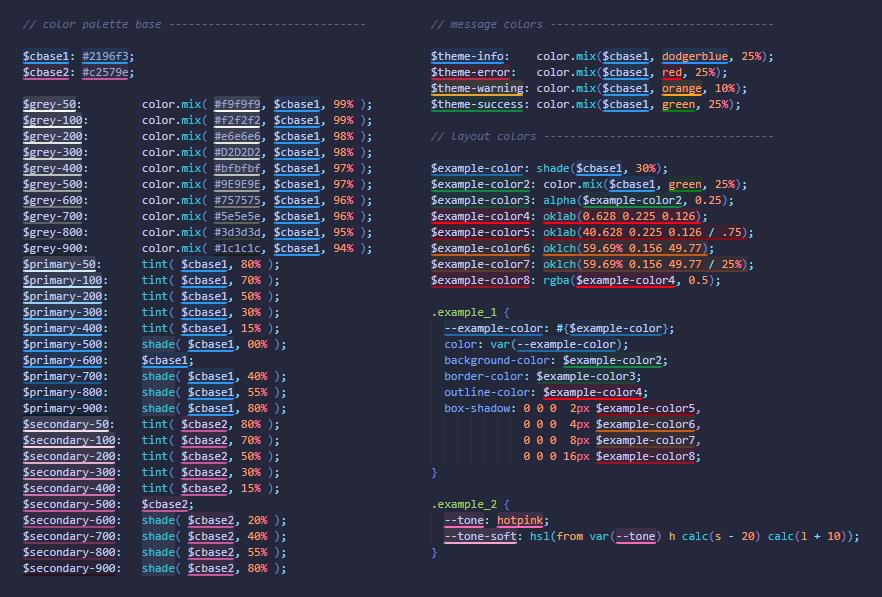
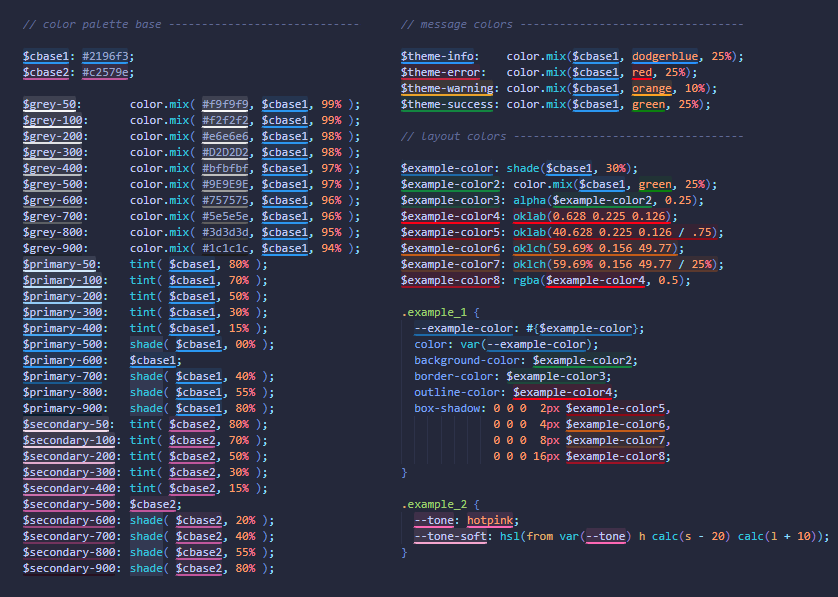
updated readme & descripton

diff --git a/README.md b/README.md
@@ -2,13 +2,17 @@
 
 VS Code inline color previews for SCSS variables, CSS custom properties, and derived color tokens.
 
-DG SCSS Color Preview is designed for projects where colors are not only defined as direct literals, but also through SCSS variables, chained token systems, interpolation, and custom helper functions.
+DG SCSS Color Preview is built for projects where colors are not only defined as direct literals, but also through SCSS variables, chained token systems, interpolation, and selected helper-based color patterns.
 
-Instead of only previewing plain values such as `#2196f3` or `rgb(...)`, the extension follows references and resolves resulting colors where possible. This makes it especially useful in codebases with semantic color tokens and derived palette systems.
+Instead of only previewing plain values such as `#2196f3` or `rgb(...)`, the extension follows references and resolves resulting colors where supported. This makes it especially useful in codebases with semantic color tokens, exported CSS variables, and derived palette systems.
 
 ## Why this extension is useful
 
-This extension includes support for custom SCSS helper patterns, including functions such as:
+Many color preview extensions work well for direct color values, but become far less useful once colors are defined indirectly through variables, helper functions, or exported token layers.
+
+DG SCSS Color Preview focuses on that practical use case. It is designed to make variable-driven color systems easier to read at a glance by previewing resolved colors directly in the editor.
+
+This includes support for custom SCSS helper patterns such as:
 
 ```scss
 @function alpha($color, $alpha) {
@@ -26,17 +30,17 @@ This extension includes support for custom SCSS helper patterns, including funct
 
 ## Example
 
-![DG SCSS Color Preview example](img/screenshot.png)
+![DG SCSS Color Preview example](https://raw.githubusercontent.com/azragh/dg-scss-color-preview/main/img/screenshot.png)
 
-The goal is to make these structures easier to read at a glance by showing the resulting color directly in the editor.
+The screenshot above shows how the extension previews resolved colors directly in variable-based SCSS and CSS workflows.
 
 ## Features
 
 - Inline underline-based color previews without adding extra spacing to the editor layout
-- Resolves chained variable references and derived token values
+- Resolves chained SCSS variable references and derived token values
 - Resolves CSS custom properties such as `--primary-500` and related token exports
 - Supports interpolation such as `#{$primary-500}`
-- Supports color derivation via:
+- Supports selected derived color patterns, including:
   - `color.mix(...)`
   - `mix(...)`
   - custom `tint(...)`
@@ -51,6 +55,7 @@ The goal is to make these structures easier to read at a glance by showing the r
   - `hsla(...)`
   - `oklab(...)`
   - `oklch(...)`
+- Supports variable-based alpha patterns such as `rgba($token, 0.25)`
 - Supports standard CSS color names such as `white`, `black`, `red`, `orange`, `green`, or `dodgerblue`
 - Avoids duplicate decorations where a resolved token and a nested literal would otherwise overlap
 
@@ -61,10 +66,11 @@ The goal is to make these structures easier to read at a glance by showing the r
 - derived palette scales
 - custom color helper functions
 - CSS custom properties
+- token exports from SCSS to CSS variables
 
 ## Installation
 
-The repository already includes a packaged `.vsix` file. You can install it via **Extensions → ... → Install from VSIX**.
+The repository already includes a packaged `.vsix` file. You can install it via **Extensions → ... → Install from VSIX...**.
 
 If you want to inspect, modify, or test the extension locally, open the project folder in VS Code and press `F5` to launch it in an Extension Development Host.
 
@@ -74,4 +80,6 @@ If you want to inspect, modify, or test the extension locally, open the project 
 
 ## Notes
 
-DG SCSS Color Preview is intentionally focused on practical SCSS and CSS color workflows. It is not a Sass compiler, it is only built to handle token and reference structures commonly used in real-world projects. It is particularly useful for developers who want more informative color previews in variable-driven styling systems than standard literal-only previews usually provide.
+DG SCSS Color Preview is intentionally focused on practical SCSS and CSS color workflows. It is not a full Sass compiler and does not attempt to evaluate every possible Sass function or arbitrary nested expression.
+
+The extension is designed to handle direct color literals, variable references, CSS custom properties, interpolation, and selected helper-based token patterns commonly used in real-world projects.
